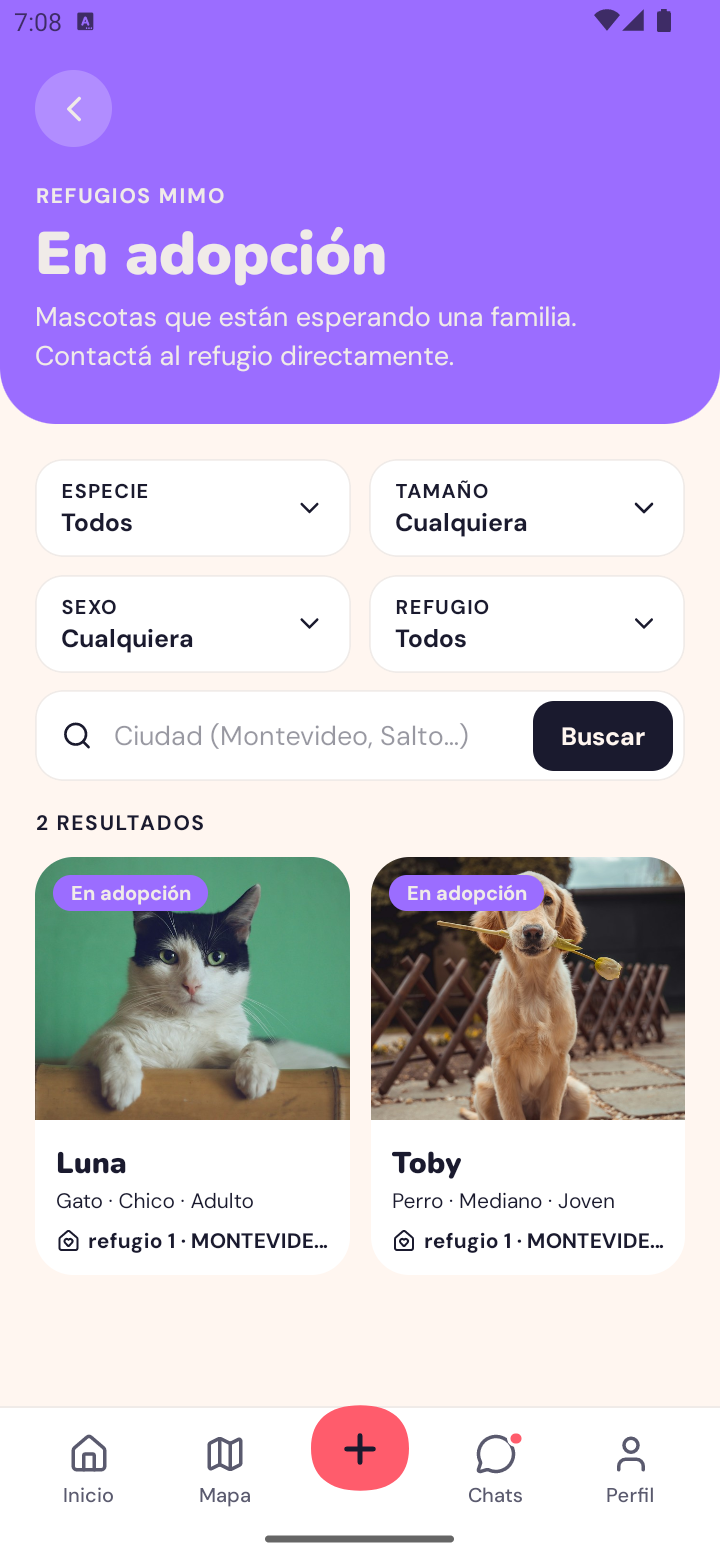
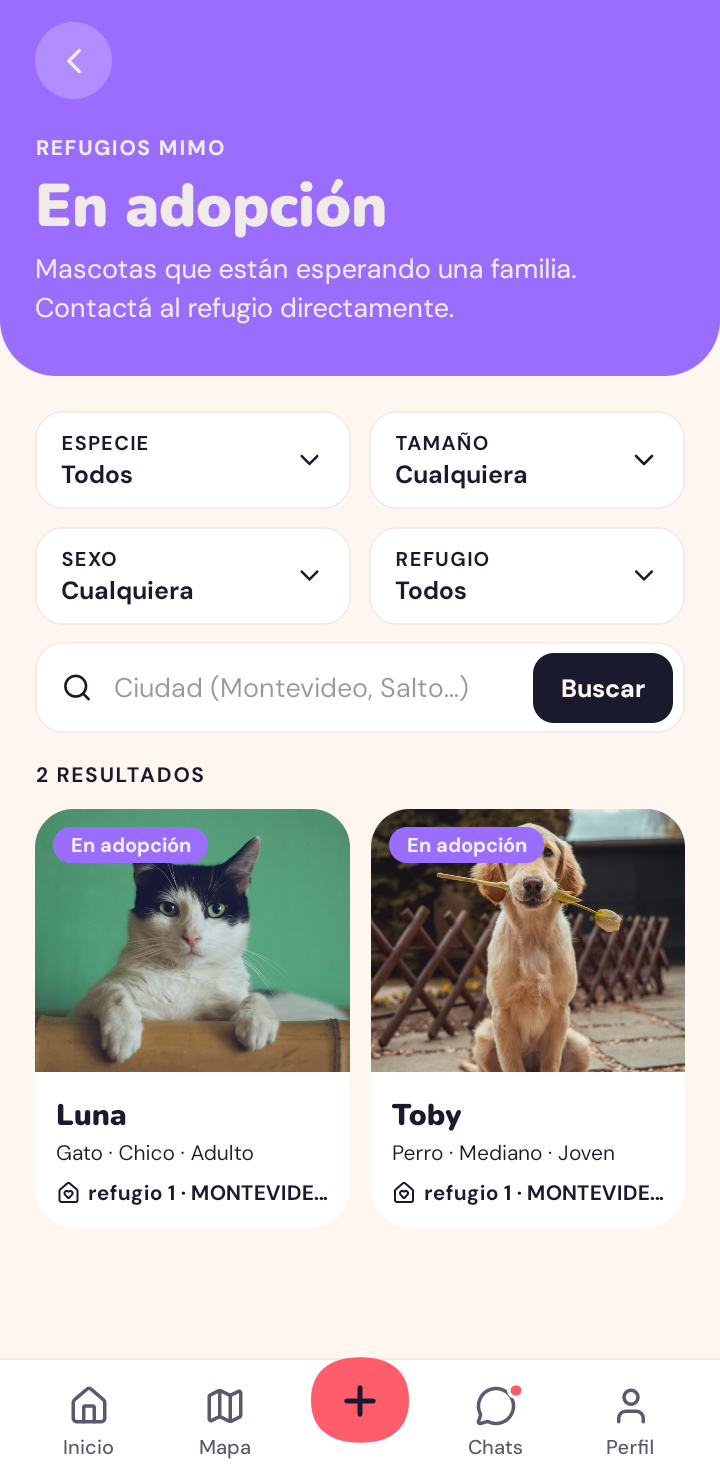
fix(web): capturas de la app bien encuadradas en los teléfonos de la landing
Se recorta la barra de estado del emulador y la zona de gestos, y la
imagen llena el marco: ya no se corta la barra de navegación de abajo.

diff --git a/client/src/pages/Landing.jsx b/client/src/pages/Landing.jsx
@@ -210,7 +210,7 @@ function Phone({ src, alt, w, h, rotate = 0 }) {
       style={{ width: w, height: h, background: C.noche, boxSizing: 'content-box', transform: `rotate(${rotate}deg)` }}
     >
       <div className="w-full h-full rounded-[34px] overflow-hidden" style={{ background: C.crema }}>
-        <img src={src} alt={alt} className="w-full block" loading="lazy" />
+        <img src={src} alt={alt} className="w-full h-full block object-cover object-top" loading="lazy" />
       </div>
     </div>
   );
